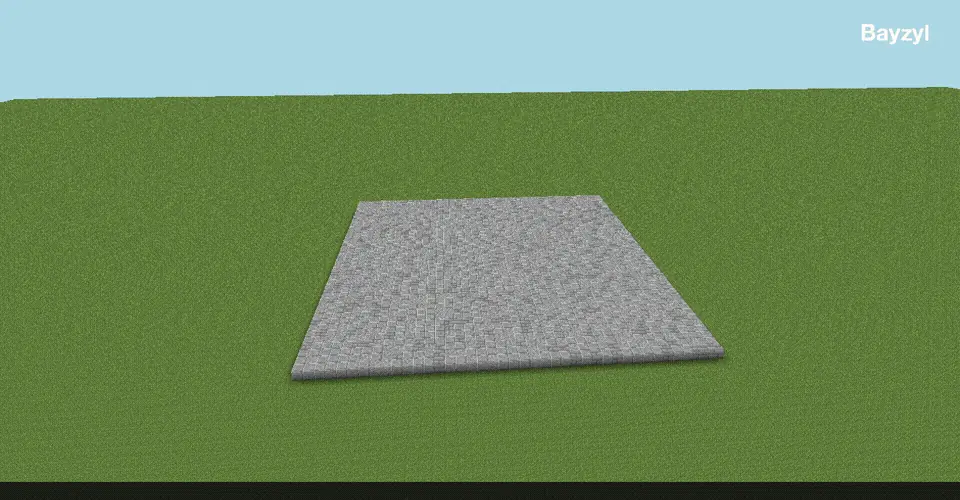
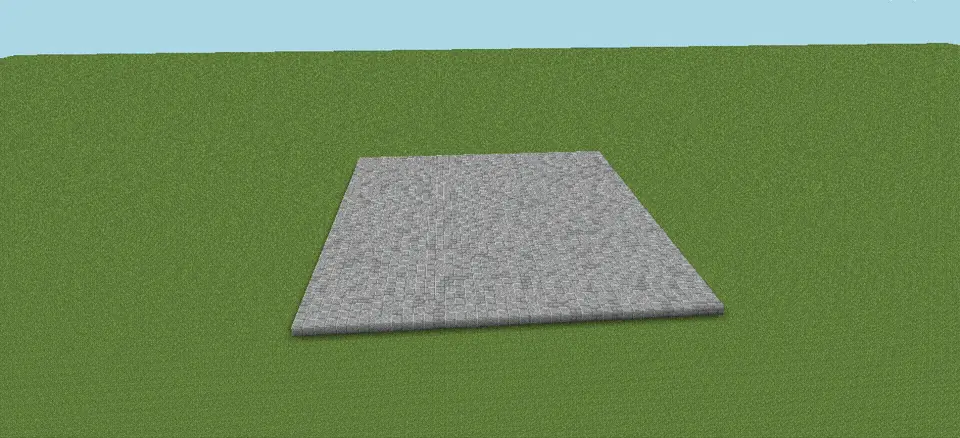
prismet-site: polish round after the critic's second pass
Truth gate: the help-page plate (it reads "1/13" beside the "16-page
guide" fact) leaves the Bayzyl gallery; the Arcade title uses Sage's own
phrase, "Each game with its own hand-built look"; drafting-table records
get their own stub line instead of "withdrawn"; the colophon says "no
analytics, no cookies, no third-party requests" and "drawn loosely after
a plaza built with Bayzyl commands"; the plate caption rests on the
Fiverr copy Sage approved ("the Minecraft network Sage runs") and links
to the Minecraft wing. Disputed facts stay off the doors (doorFacts).

The share image is now a capture of the entrance (tools/shoot-og.mjs),
not a Minecraft screenshot. The plan's rooms name their lead record
("Helm + 1") instead of a count, with larger labels; on phones the SVG
gives way to the wing list and the Work link stays in the bar. Mono caps
give way to serif small caps for every label that is a word; mono stays
for commands, versions, counts and the new Stack column in the register.
The Bayzyl door shows the clean plaza render; the PrismCode door shows
the A/B compare panel itself; the notebook room gets its band, with the
schematic beside the compare plate. Skills are an ordered list in
projects.json (languages first), each linked to its proof. The stepper
starts at the empty world; the era stage is capped at 760px; the
drafting line hides while a wing filter is active.

Claude-Session: https://claude.ai/code/session_01LNDcbCcy64DGsNuWVV1hR6

Changed region(s): [[0.2812, 0.3265, 0.75, 0.8014], [0.0, 0.0594, 1.0, 0.2078], [0.0, 0.9498, 1.0, 1.0]]

diff --git a/showcase/prismet-site/src/site.css b/showcase/prismet-site/src/site.css
@@ -103,10 +103,12 @@ code { font: 500 .86em/1.5 var(--mono); font-stretch: 87.5%; }
 section { scroll-margin-top: calc(var(--bar) + 12px); }
 
 /* data: mono, only where it is data */
-.mono, .plaque, .facts dt, .count, .crumbs, footer, .step-n, .row-status, .wing-list small, .chip small, .room-count { font-family: var(--mono); font-stretch: 87.5%; font-weight: 500; }
+.mono, .count, footer, .step-n, .wing-list small, .chip small, .row-stack { font-family: var(--mono); font-stretch: 87.5%; font-weight: 500; }
+.caps { font-family: var(--serif); font-variant-caps: all-small-caps; letter-spacing: .06em; font-weight: 500; font-variation-settings: 'opsz' 20; }
+.plaque, .facts dt, .directory dt, .ledger-head, .door-text .typeline, .crumbs, .sig-head h2, .p-body h2, .plates h2, .threads h2, .ledger-group h3, .skills-title, .hire h4, .next small, .rack-group h3, .plate figcaption::before { font-family: var(--serif); font-variant-caps: all-small-caps; letter-spacing: .06em; font-weight: 500; font-variation-settings: 'opsz' 20; text-transform: none; font-style: normal; }
 
 /* plaques: a label-holder with a brass hairline. The status of a record, the name of a wing. */
-.plaque { display: inline-flex; align-items: center; gap: .55em; font-size: .72rem; line-height: 1; letter-spacing: .1em; text-transform: uppercase; color: var(--ink-2); padding: .55em .7em; border: 1px solid var(--rule); border-radius: 2px; }
+.plaque { display: inline-flex; align-items: center; gap: .55em; font-size: .92rem; line-height: 1; color: var(--ink-2); padding: .45em .7em .5em; border: 1px solid var(--rule); border-radius: 2px; }
 .plaque.brass { color: var(--brass-ink); border-color: color-mix(in srgb, var(--brass) 55%, transparent); }
 .plaque.status::before { content: ""; width: 7px; height: 7px; border-radius: 50%; background: var(--h); }
 .plaque.live { color: var(--live); border-color: color-mix(in srgb, var(--live) 60%, transparent); }
@@ -145,13 +147,13 @@ section { scroll-margin-top: calc(var(--bar) + 12px); }
 
 /* ── entrance ─────────────────────────────────────────────────────────────────────────────── */
 .entrance { border-bottom: 1px solid var(--hair); }
-.entrance .wrap { display: grid; grid-template-columns: minmax(0, 1fr) minmax(0, 1fr); gap: clamp(24px, 4vw, 64px); align-items: center; padding-block: clamp(24px, 3vw, 40px) clamp(24px, 3vw, 40px); }
+.entrance .wrap { display: grid; grid-template-columns: minmax(0, 10fr) minmax(0, 11fr); gap: clamp(24px, 4vw, 64px); align-items: center; padding-block: clamp(24px, 3vw, 40px) clamp(24px, 3vw, 40px); }
 .salute { font-style: italic; font-size: var(--t-lg); color: var(--brass-ink); margin-top: 18px; font-variation-settings: 'opsz' 48; }
 .entrance h1 { margin-top: 4px; }
 .lede { margin-top: 22px; font-size: var(--t-md); line-height: 1.5; color: var(--ink-2); max-width: 34rem; font-variation-settings: 'opsz' 20; }
 .directory { display: flex; flex-wrap: wrap; gap: 8px 28px; margin: 24px 0 0; padding-top: 18px; border-top: 1px solid var(--hair); }
 .directory div { display: flex; gap: 10px; align-items: baseline; }
-.directory dt { font-family: var(--mono); font-stretch: 87.5%; font-size: .7rem; letter-spacing: .1em; text-transform: uppercase; color: var(--ink-3); }
+.directory dt { font-size: .9rem; color: var(--ink-3); }
 .directory dd { margin: 0; font-size: var(--t-sm); }
 .directory a { text-decoration: none; border-bottom: 1px solid var(--rule); }
 .directory a:hover { border-color: var(--brass); }
@@ -168,8 +170,8 @@ section { scroll-margin-top: calc(var(--bar) + 12px); }
 .plan .beacon { stroke: var(--lantern); stroke-width: 1; opacity: .5; }
 .plan .inlay { stroke-width: 3; stroke-linecap: round; }
 .plan .room-fill { fill: var(--surface); opacity: 0; transition: opacity .25s; }
-.plan .room-name { font-size: 15.5px; fill: var(--ink); font-weight: 500; }
-.plan .room-count { font-size: 10px; fill: var(--ink-3); letter-spacing: .08em; }
+.plan .room-name { font-size: 21px; fill: var(--ink); font-weight: 500; }
+.plan .room-lead { font-size: 16px; fill: var(--ink-2); font-style: italic; }
 .plan .wing { cursor: pointer; outline: none; }
 .plan .wing:hover .room-fill, .plan .wing:focus-visible .room-fill { opacity: 1; }
 .plan .wing:hover .room, .plan .wing:focus-visible .room { stroke: var(--ink); stroke-width: 1.6; }
@@ -195,8 +197,7 @@ section { scroll-margin-top: calc(var(--bar) + 12px); }
 
 @media (max-width: 900px) {
   .entrance .wrap { grid-template-columns: 1fr; }
-  .plan { max-width: 460px; }
-  .plan svg text { display: none; }
+  .plan svg { display: none; }
   .wing-list { display: grid; }
   .lantern { display: none; }
 }
@@ -230,12 +231,12 @@ section { padding-block: clamp(40px, 6vw, 80px); }
 .door-media:hover { border-color: var(--rule); }
 .door-media .mod { position: absolute; inset: 0; margin: 0; }
 .door-media img { width: 100%; height: 100%; object-fit: cover; }
-.door-text .typeline { display: flex; align-items: center; gap: 10px; font-family: var(--mono); font-stretch: 87.5%; font-size: .72rem; letter-spacing: .1em; text-transform: uppercase; color: var(--hi); }
+.door-text .typeline { display: flex; align-items: center; gap: 10px; font-size: .95rem; color: var(--hi); }
 .door-text .typeline i { width: 18px; height: 3px; background: var(--h); border-radius: 2px; }
 .door-text h3 { margin-top: 8px; font-size: var(--t-xl); }
 .door-text h3 a { text-decoration: none; }
 .door-text h3 a:hover { color: var(--brass-ink); }
-.door-text .sub { margin-top: 8px; color: var(--ink-2); font-size: var(--t-base); line-height: 1.5; }
+.door-text .sub { margin-top: 8px; color: var(--ink-2); font-size: var(--t-base); line-height: 1.5; display: -webkit-box; -webkit-line-clamp: 3; -webkit-box-orient: vertical; overflow: hidden; }
 .door-text .facts { margin-top: 14px; }
 .door-text .access { margin-top: 14px; display: flex; flex-wrap: wrap; align-items: center; gap: 8px 16px; }
 @media (max-width: 760px) { .doors { grid-template-columns: 1fr; } }
@@ -255,28 +256,29 @@ section { padding-block: clamp(40px, 6vw, 80px); }
 .facts { display: grid; grid-template-columns: repeat(auto-fit, minmax(140px, 1fr)); gap: 0; border-top: 1px solid var(--rule); border-bottom: 1px solid var(--rule); margin: 0; }
 .facts div { padding: 10px 12px 10px 0; min-width: 0; border-right: 1px solid var(--hair); margin-right: 12px; }
 .facts div:last-child { border-right: 0; }
-.facts dt { font-size: .68rem; letter-spacing: .1em; text-transform: uppercase; color: var(--ink-3); }
+.facts dt { font-size: .86rem; color: var(--ink-3); }
 .facts dd { margin: 4px 0 0; font: 500 var(--t-sm)/1.35 var(--serif); font-variant-numeric: tabular-nums; }
 .facts.small { grid-template-columns: 1fr 1fr; }
 
 /* ── the register: a ruled ledger ─────────────────────────────────────────────────────────── */
 .filters { display: flex; flex-wrap: wrap; gap: 8px; margin-bottom: 20px; }
 .ledger { border-top: 3px solid var(--rule); }
-.ledger-head, .row { display: grid; grid-template-columns: 10px 96px minmax(0, 3fr) minmax(0, 1.2fr) minmax(0, 1.4fr) minmax(0, 1fr); gap: 16px; align-items: center; }
-.ledger-head { padding: 10px 0; font-family: var(--mono); font-stretch: 87.5%; font-size: .66rem; letter-spacing: .1em; text-transform: uppercase; color: var(--ink-3); border-bottom: 1px solid var(--rule); }
-.ledger-group h3 { font-family: var(--serif); font-style: italic; font-weight: 400; font-size: var(--t-base); color: var(--ink-3); padding: 18px 0 6px; font-variation-settings: 'opsz' 20; }
+.ledger-head, .row { display: grid; grid-template-columns: 10px 96px minmax(0, 2.6fr) minmax(0, 1.1fr) minmax(0, 1.3fr) minmax(0, 1.3fr) minmax(0, .9fr); gap: 16px; align-items: center; }
+.ledger-head { padding: 10px 0; font-size: .86rem; color: var(--ink-3); border-bottom: 1px solid var(--rule); }
+.ledger-group h3 { font-size: 1rem; color: var(--ink-3); padding: 18px 0 6px; }
 .row { position: relative; padding: 10px 0; border-bottom: 1px solid var(--hair); min-height: 64px; }
 .row:hover, .row:focus-within { background: color-mix(in srgb, var(--raised) 70%, transparent); }
 .row-tick { width: 4px; height: 36px; background: var(--h); border-radius: 2px; justify-self: start; }
 .row-thumb { width: 96px; height: 60px; object-fit: cover; object-position: top; border: 1px solid var(--hair); background: var(--raised); }
 .row-thumb.blank { display: block; background: repeating-linear-gradient(135deg, transparent 0 6px, var(--hair) 6px 7px); }
 .row-record { min-width: 0; }
-.row-record em { display: block; font-style: italic; color: var(--ink-2); font-size: var(--t-sm); line-height: 1.35; margin-top: 2px; overflow: hidden; text-overflow: ellipsis; display: -webkit-box; -webkit-line-clamp: 2; -webkit-box-orient: vertical; }
+.row-record em { display: block; font-style: normal; color: var(--ink-2); font-size: var(--t-sm); line-height: 1.35; margin-top: 2px; overflow: hidden; text-overflow: ellipsis; display: -webkit-box; -webkit-line-clamp: 2; -webkit-box-orient: vertical; }
 .row-link { font-weight: 500; font-size: var(--t-md); text-decoration: none; font-variation-settings: 'opsz' 32; }
 .row-link::after { content: ""; position: absolute; inset: 0; }                         /* the whole row opens the record */
 .row-link:hover { color: var(--brass-ink); }
 .row-wing { font-size: var(--t-sm); color: var(--hi); }
-.row-status { font-size: .74rem; letter-spacing: .02em; color: var(--ink-2); }
+.row-status { font-size: var(--t-sm); color: var(--ink-2); }
+.row-stack { font-size: .72rem; color: var(--ink-3); letter-spacing: .02em; line-height: 1.4; }
 .row-access { display: flex; flex-wrap: wrap; gap: 4px 12px; position: relative; z-index: 1; font-size: var(--t-sm); }
 .row-access a { text-decoration: none; border-bottom: 1px solid var(--rule); min-height: 32px; display: inline-flex; align-items: center; }
 .row-access a:hover { border-color: var(--brass); color: var(--brass-ink); }
@@ -290,18 +292,20 @@ section { padding-block: clamp(40px, 6vw, 80px); }
   .row-tick { grid-area: tick; height: 100%; }
   .row-thumb { grid-area: thumb; width: 72px; height: 48px; }
   .row-record { grid-area: record; }
-  .row-wing, .row-status, .row-access { grid-area: meta; }
-  .row-wing { display: none; }
+  .row-wing, .row-status, .row-access, .row-stack { grid-area: meta; }
+  .row-wing, .row-stack { display: none; }
   .row-status { align-self: end; }
   .row-access { justify-self: end; }
 }
 
 /* ── the plate ────────────────────────────────────────────────────────────────────────────── */
-#plate { padding-block: clamp(32px, 5vw, 64px); }
+#plate { padding-block: clamp(20px, 3vw, 40px); }
 .plate { margin: 0 auto; max-width: 860px; }
 .plate img { width: 100%; height: auto; border: 1px solid var(--hair); }
 .plate figcaption { margin-top: 10px; font-style: italic; color: var(--ink-2); font-size: var(--t-sm); display: flex; gap: 12px; }
-.plate figcaption::before { content: "Plate"; font-style: normal; font-family: var(--mono); font-stretch: 87.5%; font-size: .68rem; letter-spacing: .1em; text-transform: uppercase; color: var(--ink-3); align-self: center; }
+.plate figcaption::before { content: "Plate"; font-size: .9rem; color: var(--ink-3); align-self: center; }
+.plate figcaption i { width: 14px; height: 3px; background: var(--h); border-radius: 2px; align-self: center; flex: none; }
+.plate figcaption a { color: var(--hi); text-decoration: none; border-bottom: 1px solid var(--rule); white-space: nowrap; }
 
 /* ── lenses: live instruments ─────────────────────────────────────────────────────────────── */
 .lenses { display: grid; grid-template-columns: repeat(auto-fit, minmax(min(100%, 300px), 1fr)); gap: 18px; }
@@ -316,7 +320,7 @@ section { padding-block: clamp(40px, 6vw, 80px); }
 .about-text .prose { margin-top: 20px; color: var(--ink-2); font-size: var(--t-md); line-height: 1.55; max-width: 38rem; font-variation-settings: 'opsz' 20; }
 .about .prose p + p { margin-top: 14px; }
 .about .prose strong { color: var(--ink); font-weight: 550; }
-.skills-title { margin-top: 36px; font-size: var(--t-base); font-style: italic; font-weight: 400; color: var(--ink-3); }
+.skills-title { margin-top: 36px; font-size: 1rem; color: var(--ink-3); }
 .skills { list-style: none; padding: 0; margin: 10px 0 0; display: grid; grid-template-columns: repeat(auto-fill, minmax(150px, 1fr)); gap: 0 16px; border-top: 1px solid var(--rule); }
 .skills li { display: flex; justify-content: space-between; gap: 8px; align-items: baseline; padding: 8px 0; border-bottom: 1px solid var(--hair); font-size: var(--t-sm); }
 .skills a { text-decoration: none; font-weight: 500; }
@@ -329,7 +333,7 @@ section { padding-block: clamp(40px, 6vw, 80px); }
 .hire-list li { display: flex; gap: 12px; align-items: baseline; font-weight: 500; }
 .hire-list i { width: 14px; height: 3px; border-radius: 2px; background: var(--h); flex: none; transform: translateY(-3px); }
 .hire-list small { display: block; font-weight: 400; color: var(--ink-3); font-size: var(--t-sm); }
-.hire h4 { font-size: var(--t-base); font-style: italic; font-weight: 400; color: var(--ink-3); }
+.hire h4 { font-size: 1rem; color: var(--ink-3); }
 .doors-list { list-style: none; padding: 0; margin: 8px 0 20px; border-top: 1px solid var(--rule); }
 .doors-list a { display: flex; align-items: baseline; gap: 12px; padding: 12px 0; border-bottom: 1px solid var(--hair); text-decoration: none; min-height: 48px; }
 .doors-list a:hover strong { color: var(--brass-ink); }
@@ -346,7 +350,7 @@ footer a:hover { color: var(--ink); }
 
 /* ── project page: one skeleton ───────────────────────────────────────────────────────────── */
 .p-head { padding-block: clamp(28px, 5vw, 64px) 28px; }
-.crumbs { font-family: var(--mono); font-stretch: 87.5%; font-size: .72rem; letter-spacing: .06em; color: var(--ink-3); display: flex; gap: 8px; }
+.crumbs { font-size: .95rem; color: var(--ink-3); display: flex; gap: 8px; }
 .crumbs a { text-decoration: none; color: var(--ink-2); }
 .crumbs a:hover { color: var(--brass-ink); }
 .p-head h1 { margin-top: 18px; }
@@ -356,7 +360,7 @@ footer a:hover { color: var(--ink); }
 .frontispiece img { width: 100%; height: auto; max-height: 72vh; object-fit: contain; object-position: left top; border: 1px solid var(--hair); background: var(--surface); }
 .p-body { display: grid; grid-template-columns: minmax(0, 7fr) minmax(0, 4fr); gap: clamp(24px, 5vw, 64px); padding-block: 36px 24px; }
 .p-body .prose { font-size: var(--t-md); line-height: 1.6; color: var(--ink-2); max-width: 40rem; font-variation-settings: 'opsz' 20; }
-.p-body h2 { font-size: var(--t-base); font-style: italic; font-weight: 400; color: var(--ink-3); margin: 28px 0 10px; }
+.p-body h2 { font-size: 1rem; color: var(--ink-3); margin: 28px 0 10px; }
 .p-body .summary p + p { margin-top: 14px; }
 .p-body ul.hl { padding: 0; margin: 0; list-style: none; display: grid; gap: 10px; font-size: var(--t-base); }
 .p-body ul.hl li { padding-left: 24px; position: relative; color: var(--ink-2); }
@@ -372,7 +376,7 @@ footer a:hover { color: var(--ink); }
 .threads a:hover { color: var(--brass-ink); }
 .todo { border: 1px dashed var(--rule); padding: 16px; color: var(--ink-2); font-family: var(--mono); font-size: var(--t-sm); }
 .plates { padding-block: 12px 40px; }
-.plates h2 { font-size: var(--t-base); font-style: italic; font-weight: 400; color: var(--ink-3); border-top: 1px solid var(--rule); padding-top: 14px; margin-bottom: 18px; }
+.plates h2 { font-size: 1rem; color: var(--ink-3); border-top: 1px solid var(--rule); padding-top: 14px; margin-bottom: 18px; }
 .plate-grid { display: grid; grid-template-columns: repeat(auto-fill, minmax(min(100%, 280px), 1fr)); gap: 24px 20px; grid-auto-flow: dense; }
 .plate-grid figure { margin: 0; min-width: 0; }
 .plate-grid figure.wide { grid-column: 1 / -1; }
@@ -381,7 +385,7 @@ footer a:hover { color: var(--ink); }
 .plate-grid figcaption { margin-top: 8px; font-size: var(--t-sm); font-style: italic; color: var(--ink-2); line-height: 1.4; }
 .next { display: grid; grid-template-columns: 1fr auto 1fr; gap: 16px; align-items: center; border-top: 1px solid var(--rule); padding-block: 24px 40px; }
 .next a { text-decoration: none; min-height: 44px; display: flex; flex-direction: column; justify-content: center; }
-.next small { font-family: var(--mono); font-stretch: 87.5%; font-size: .66rem; letter-spacing: .1em; text-transform: uppercase; color: var(--ink-3); margin-bottom: 6px; }
+.next small { font-size: .9rem; color: var(--ink-3); margin-bottom: 6px; }
 .next strong { font-weight: 500; font-size: var(--t-base); }
 .next a:hover strong { color: var(--brass-ink); }
 .next .back { font-style: italic; color: var(--ink-2); text-align: center; }
@@ -396,14 +400,14 @@ footer a:hover { color: var(--ink); }
 /* signature sections share a head */
 .sig { padding-block: 8px 24px; }
 .sig-head { border-top: 1px solid var(--rule); padding-top: 14px; margin-bottom: 18px; display: flex; flex-wrap: wrap; align-items: baseline; justify-content: space-between; gap: 8px 24px; }
-.sig-head h2 { font-size: var(--t-base); font-style: italic; font-weight: 400; color: var(--ink-3); }
+.sig-head h2 { font-size: 1rem; color: var(--ink-3); }
 .sig-head p { color: var(--ink-2); font-size: var(--t-sm); font-style: italic; }
 
 /* ── rooms: the material of each page ─────────────────────────────────────────────────────── */
 [data-room="bench"] .sig { background: #2A2C2E; color: #E6E1D4; --ink: #E6E1D4; --ground: #2A2C2E; --surface: #343639; --ink-2: #C8C3B6; --ink-3: #9A958A; --rule: rgba(230, 225, 212, .22); --hair: rgba(230, 225, 212, .1); --brass-ink: #E0BC6E; }
 [data-room="bench"] .sig { padding-block: 28px 32px; }
 .stepper { display: grid; gap: 14px; }
-.steps { list-style: none; padding: 0; margin: 0; display: grid; }
+.steps { list-style: none; padding: 0; margin: 0; display: grid; max-width: 820px; }
 .step { grid-area: 1 / 1; }
 .js .step:not([aria-current]) { display: none; }
 .step img { width: 100%; height: auto; border: 1px solid var(--hair); }
@@ -431,7 +435,7 @@ footer a:hover { color: var(--ink); }
 [data-room="bridge"] .sig-head h2 { font-family: var(--mono); font-stretch: 87.5%; font-style: normal; font-size: .78rem; letter-spacing: .14em; text-transform: uppercase; color: #FF4D6A; }
 [data-room="bridge"] .sig-head h2::after { content: " // KDE PLASMA 6"; color: var(--ink-3); }
 .rack-group { margin-top: 18px; }
-.rack-group h3 { font-family: var(--mono); font-stretch: 87.5%; font-size: .68rem; letter-spacing: .12em; text-transform: uppercase; color: var(--ink-3); margin-bottom: 10px; }
+.rack-group h3 { font-size: .95rem; color: var(--ink-3); margin-bottom: 10px; }
 .rack-row { display: grid; gap: 12px; grid-template-columns: repeat(auto-fit, minmax(220px, 1fr)); }
 .rack-row.n2 { grid-template-columns: 2fr 1fr; }
 .rack-row figure { margin: 0; }
@@ -440,7 +444,7 @@ footer a:hover { color: var(--ink); }
 
 [data-room="museum"] .sig { background: #1B1710; color: #EADFC8; --ink: #EADFC8; --ground: #1B1710; --surface: #26211A; --ink-2: #CFC3A8; --ink-3: #9F9480; --rule: rgba(234, 223, 200, .25); --hair: rgba(234, 223, 200, .1); --brass-ink: #F8C060; padding-block: 28px 36px; }
 .eras { display: grid; gap: 14px; }
-.era-stage { display: grid; aspect-ratio: 16 / 9; border: 1px solid var(--hair); overflow: hidden; }
+.era-stage { display: grid; aspect-ratio: 16 / 9; border: 1px solid var(--hair); overflow: hidden; max-width: 760px; }
 .era-stage img { grid-area: 1 / 1; width: 100%; height: 100%; object-fit: cover; transition: clip-path .5s var(--ease), opacity .5s; }
 .era-dial { display: flex; gap: 8px; border: 0; padding: 0; margin: 0; }
 .era-dial label { position: relative; }
@@ -454,7 +458,12 @@ footer a:hover { color: var(--ink); }
 .eras:has(input[value="dyson"]:checked) .era-dyson, .eras:has(input[value="dyson"]:checked) .era-industrial { clip-path: inset(0); }
 @supports not selector(:has(a)) { .era-dial { display: none; } .era-stage { display: grid; grid-template-columns: repeat(3, 1fr); aspect-ratio: auto; } .era-stage img { grid-area: auto; } }
 
-[data-room="notebook"] .sig { padding-block: 20px 32px; }
+[data-room="notebook"] .sig { padding-block: 24px 32px; background: var(--surface); border-block: 1px solid color-mix(in srgb, var(--line) 60%, transparent); }
+.notebook-grid { display: grid; grid-template-columns: minmax(0, 1fr) minmax(0, 1fr); gap: 28px; align-items: start; }
+.notebook-plate { margin: 0; }
+.notebook-plate img { width: 100%; height: auto; border: 1px solid var(--hair); }
+.notebook-plate figcaption { margin-top: 8px; font-size: var(--t-sm); font-style: italic; color: var(--ink-2); }
+@media (max-width: 860px) { .notebook-grid { grid-template-columns: 1fr; } }
 .schematic { position: relative; max-width: 760px; }
 .schematic svg { width: 100%; height: auto; font-family: var(--serif); }
 .schematic .node { fill: var(--surface); stroke: var(--line); stroke-width: 1.4; }

diff --git a/showcase/prismet-site/src/site.js b/showcase/prismet-site/src/site.js
@@ -57,6 +57,7 @@
         let n = 0;
         rows.forEach((r) => { const show = id === 'all' || r.dataset.beam === id; r.hidden = !show; if (show && !r.classList.contains('is-off')) n++; });
         groups.forEach((g) => { g.hidden = ![...g.querySelectorAll('.row')].some((r) => !r.hidden); });
+        const drafting = ledger.querySelector('.drafting'); if (drafting) drafting.hidden = id !== 'all';
         buttons.forEach((b) => b.setAttribute('aria-pressed', String(b.dataset.filter === id)));
         if (count) count.textContent = count.dataset.countTemplate.replace('{shown}', n).replace('{total}', count.dataset.total);
         if (push) history.replaceState(null, '', id === 'all' ? location.pathname : `#${id}`);

diff --git a/showcase/prismet-site/content/site.md b/showcase/prismet-site/content/site.md
@@ -206,7 +206,7 @@ Contact
 Commissions
 
 ## plan.caption
-Six wings around one prism. Pick a wing to filter the register.
+Six wings around one prism. Pick a wing to open its records.
 
 ## selected.title_new
 Principal works
@@ -241,6 +241,9 @@ Year
 ## work.col_access
 Access
 
+## work.col_stack
+Stack
+
 ## access.source
 Source
 
@@ -254,7 +257,7 @@ App Store
 —
 
 ## plate.caption
-A build on the Paper server Bayzyl runs on.
+A night build on the Minecraft network Sage runs.
 
 ## lenses.live
 Live
@@ -286,6 +289,9 @@ Plates
 ## project.withdrawn
 This record was withdrawn from the register.
 
+## project.drafting_stub
+This record is still on the drafting table.
+
 ## bench.title
 One command at a time
 
@@ -302,7 +308,7 @@ Previous step
 Next step
 
 ## arcade.title
-Every game, hand-built
+Each game with its own hand-built look
 
 ## arcade.opens_here
 Opens here
@@ -317,7 +323,7 @@ Horizon
 Telemetry
 
 ## rack.group_wit
-Wit
+Instruments
 
 ## rack.group_systems
 Systems
@@ -353,13 +359,13 @@ Colophon
 How this workshop is built
 
 ## colophon.p1
-Every page here is plain HTML, CSS and a few lines of JavaScript, generated by a script with no dependencies. The fonts are served from this site, so visiting it makes no request to anyone else, and nothing is tracked.
+Every page here is plain HTML, CSS and a few lines of JavaScript, generated by a script with no dependencies. The fonts are served from this site, so visiting it makes no request to anyone else: no analytics, no cookies, no third-party requests.
 
 ## colophon.p2
 Four routes on prismet.xyz are load-bearing for the Prismet app: the daily word feed, the multiplayer signaling channel, and the Steam Rewind and Debt Clock pages linked from the app's settings. They keep working whatever this site looks like.
 
 ## colophon.p3
-Type is Newsreader, with Martian Mono for data. Both are open-licensed. The six wing colours come from the app's own colour wheel, and the hall plan is drawn from a scene built with Bayzyl commands.
+Type is Newsreader, with Martian Mono for data. Both are open-licensed. The six wing colours come from the app's own colour wheel, and the hall plan is drawn loosely after a plaza built with Bayzyl commands.
 
 ## footer.colophon
 Colophon
